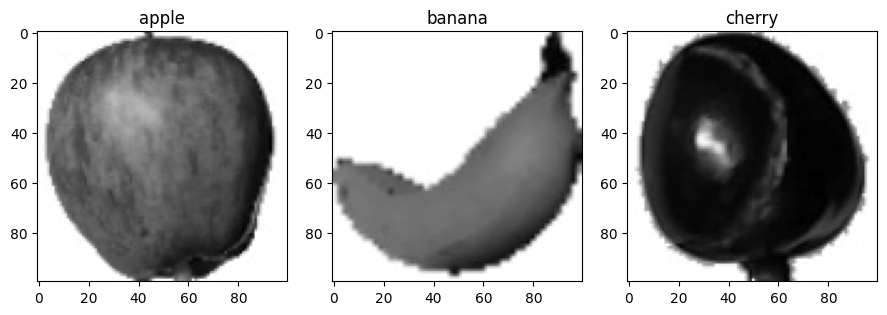
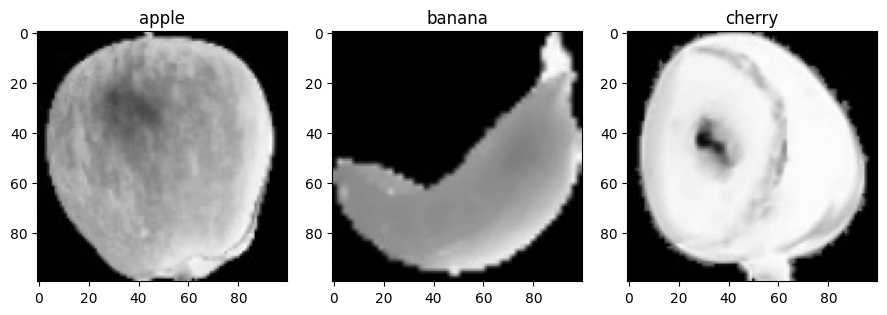
elbow method

diff --git a/Analysis/4_elbow method.py b/Analysis/4_elbow method.py
@@ -1,0 +1,24 @@
+import numpy as np
+from imgtoarray import load_images
+from sklearn.cluster import KMeans
+import matplotlib.pyplot as plt
+
+# 데이터 로드
+apple = load_images("Training\Apple Red 1") # 492장
+banana = load_images("Training\Banana 1") # 490장
+cherry = load_images("Training\Cherry 1") # 492장
+fruit = np.concatenate((apple, banana, cherry), axis=0) # 1474장
+
+# k의 변화에 따른 이너셔 그래프
+inertia = []
+k_range = range(2,7)
+for k in k_range:
+    km = KMeans(n_clusters=k, random_state=42) # 모델 객체 생성
+    km.fit(fruit.reshape(-1, 100*100)) # 모델 객체 훈련
+    inertia.append(km.inertia_ / 1000)
+
+plt.plot(k_range, inertia)
+plt.xlabel("k")
+plt.ylabel("inertia / 1000")
+plt.xticks(k_range)
+plt.savefig(r"Images\4_elbow method")

diff --git a/Analysis/0_module test.py b/Analysis/0_module test.py
@@ -8,4 +8,4 @@ for fruit in apple, banana, cherry:
     print(fruit.shape[0])
 
 sample_fruit = np.concatenate((apple[0:1], banana[0:1], cherry[0:1]), axis=0)
-draw_images(sample_fruit, ratio=3, titles=["apple", "banana", "cherry"], axis="on", save=r"Images\0_sample")
+draw_images(sample_fruit, ratio=3, titles=["apple", "banana", "cherry"], axis="on", cmap="gray", save=r"Images\0_sample")
